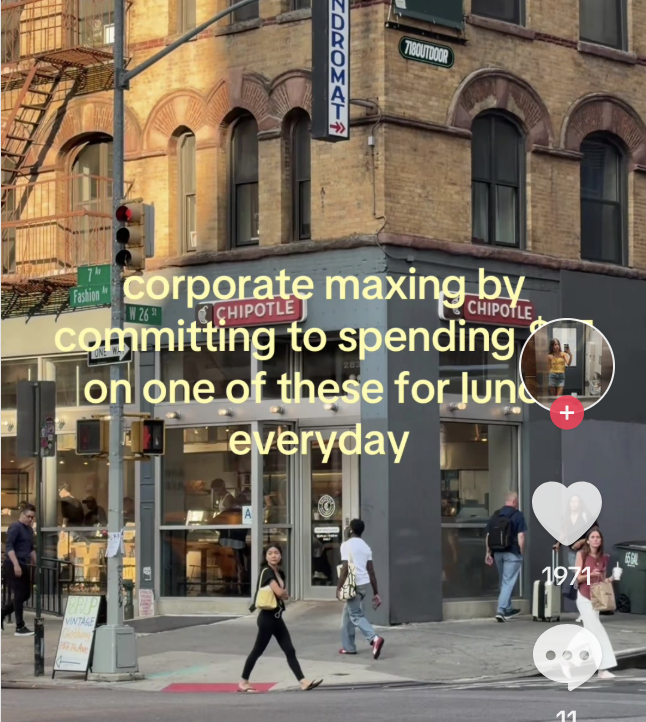
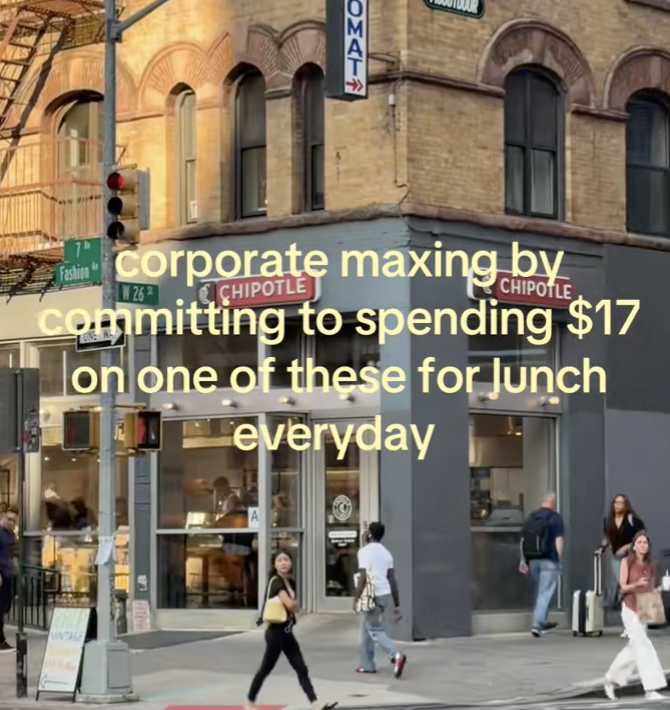
Update 2 examples

diff --git a/data/content.js b/data/content.js
@@ -25,23 +25,6 @@ window.FRWD_CONTENT = {
   },
   projects: [
     {
-      slug: "liquid-death",
-      title: "Liquid Death",
-      description: "Hydration with a punchline.",
-      image: "assets/thumb-liquid-death.svg",
-      categories: ["Beverage", "Brand Voice"],
-      tags: ["Comedy", "Shareability", "Retail"],
-      caseStudy: {
-        insight:
-          "Most people know they should drink more water, but reminders feel preachy and forgettable.",
-        opportunity:
-          "Turn hydration into a social object: absurd enough to share, simple enough to remember.",
-        hook: "Hydrate like your group chat depends on it.",
-        results:
-          "More earned reposts, sharper retail memorability, and a campaign tone that can stretch from TikTok to convenience-store signage.",
-      },
-    },
-    {
       slug: "product-design-app",
       title: "Product Design App",
       description: "Journaling app designed with Figma",
